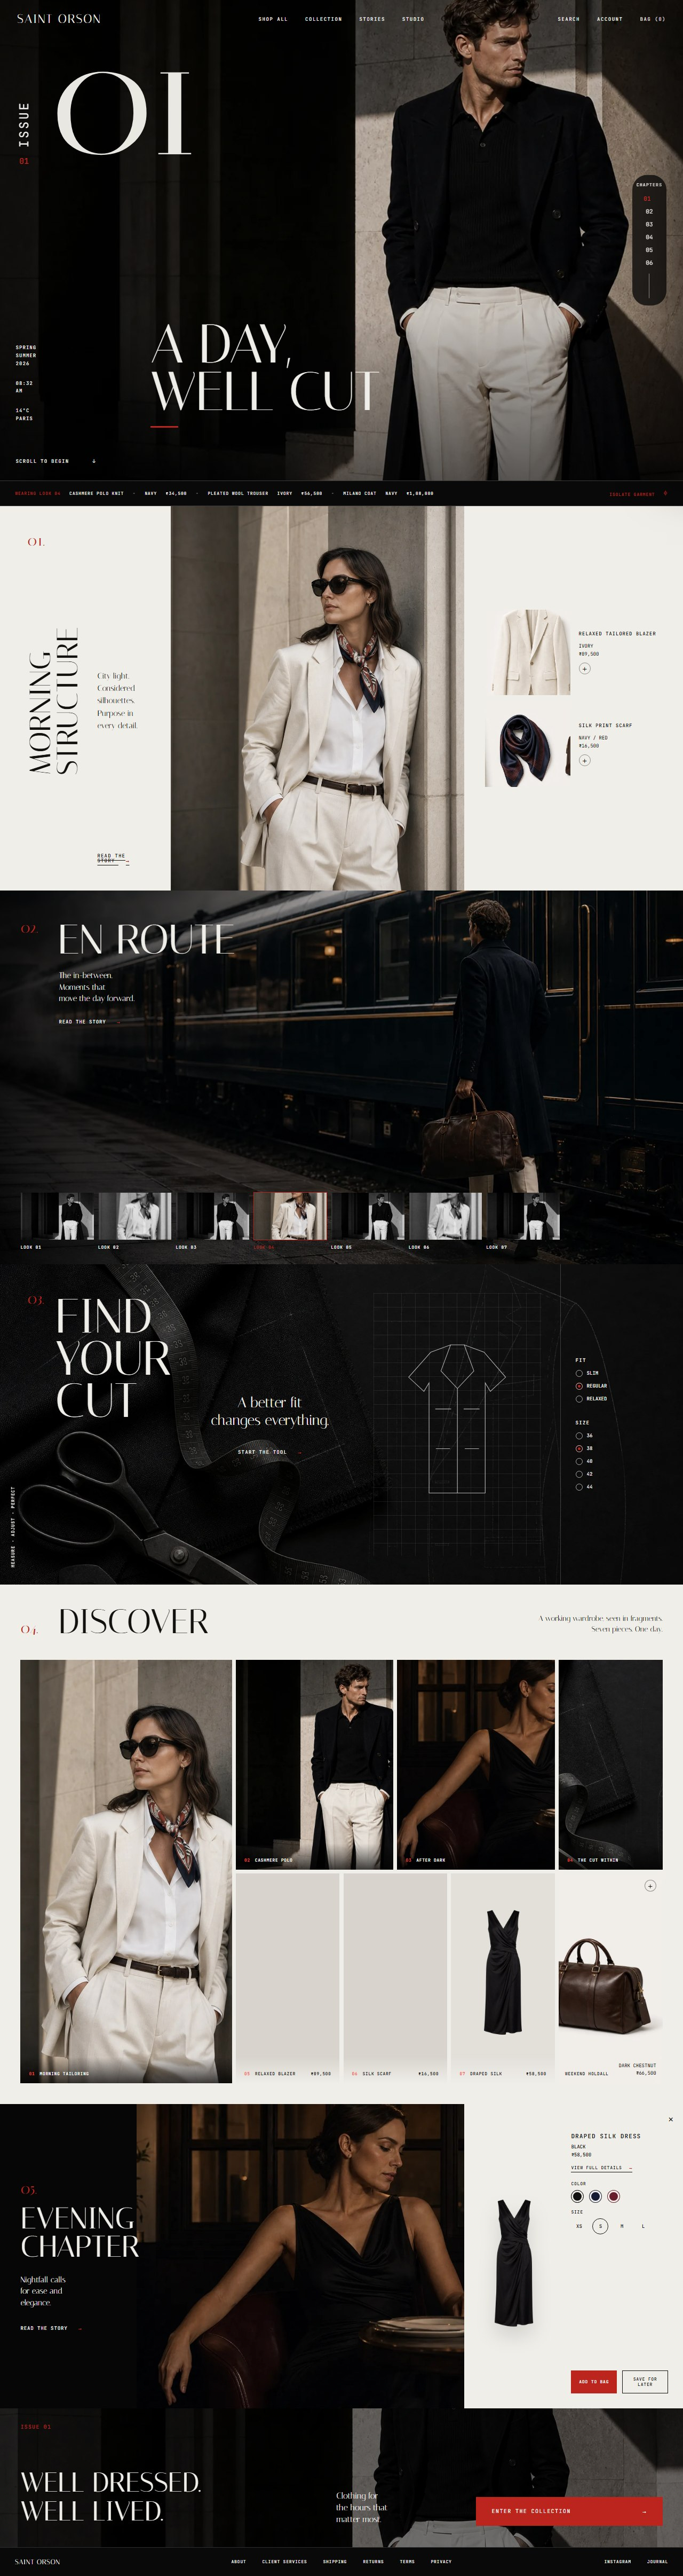
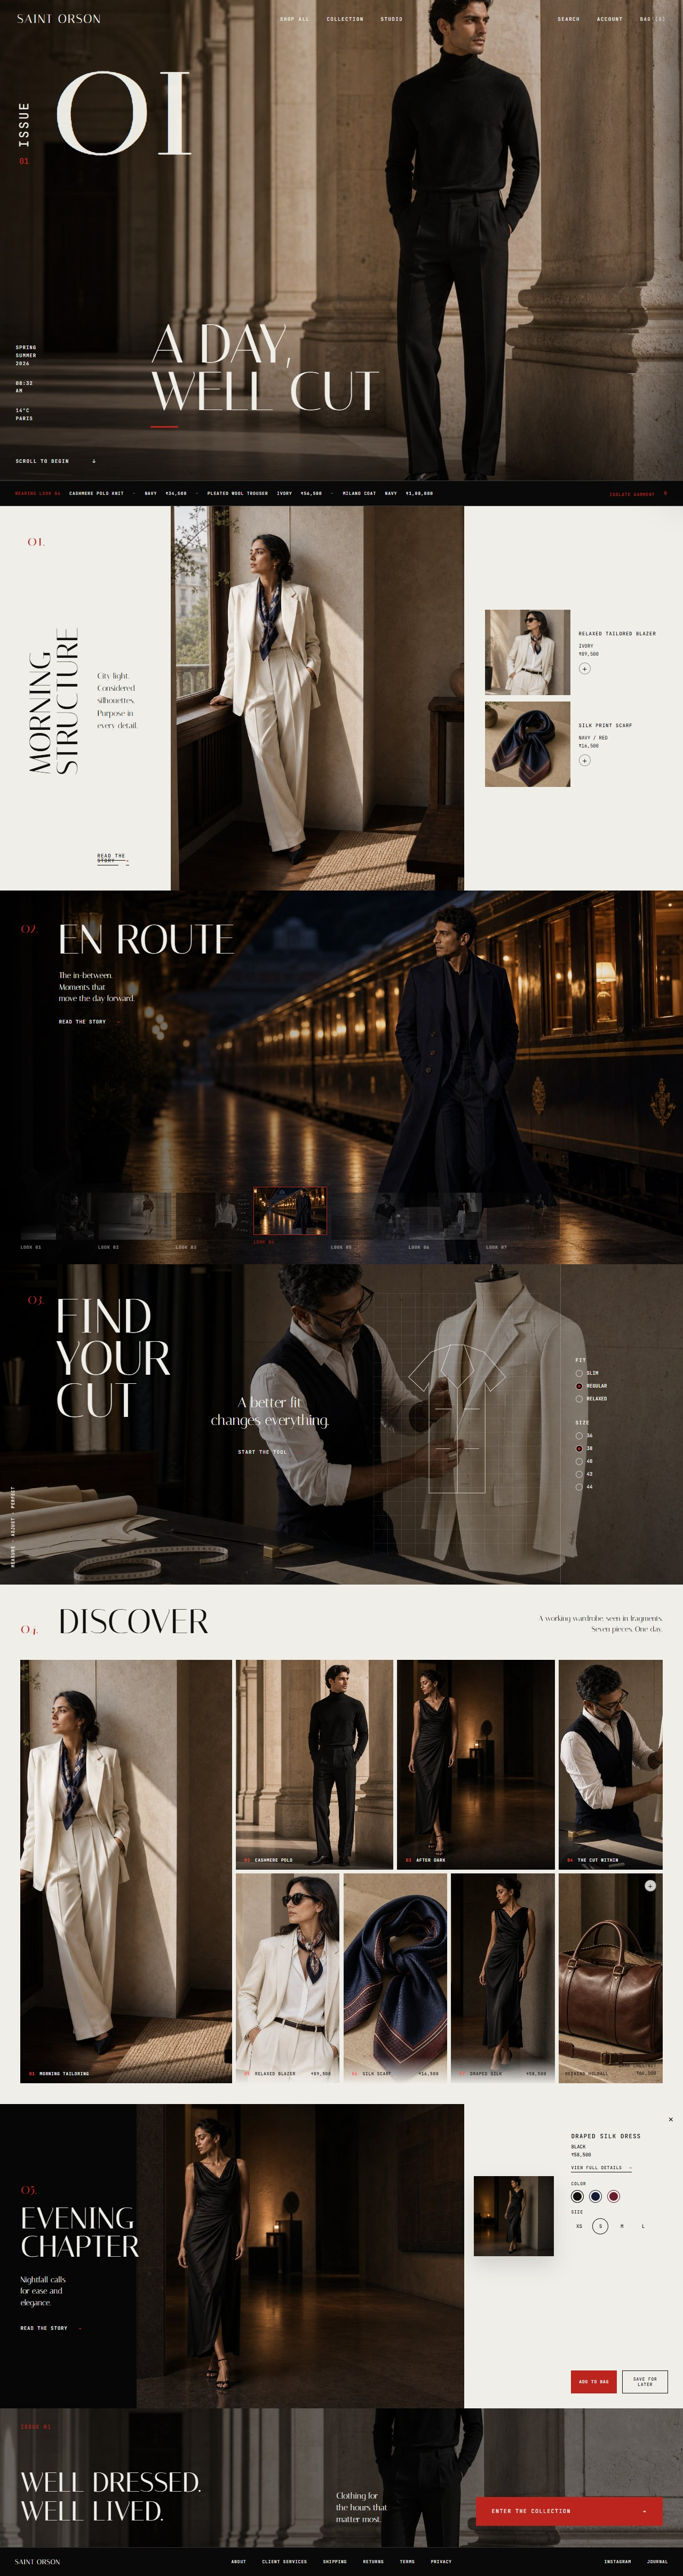
Pravah + Saint Orson: real imagery and brand assets
Pre-existing working-tree changes, bundled in per request:
- Pravah: reworked products/network sections to use real infrastructure
  imagery (bare metal, storage, managed databases, network ops) and SVG
  diagrams, with matching style updates
- Saint Orson: brand mark + favicons, index tweak, refreshed preview shot

diff --git a/case-studies/pravah/products.jsx b/case-studies/pravah/products.jsx
@@ -1,105 +1,9 @@
 import React from 'react';
-import { Server, Cpu, HardDrive, Database, Network, Save, ArrowRight } from 'lucide-react';
+import { Cpu, HardDrive, Database, Network, Save } from 'lucide-react';
 import { Reveal, Placeholder } from './ui.jsx';
 
 /* ----- small sharp technical diagrams, one per product ----- */
 
-const ladder = [
-  { n: 'Basic', s: '2 vCPU · 4 GB', p: '₹399', w: 28 },
-  { n: 'General Purpose', s: '4 vCPU · 8 GB', p: '₹799', w: 48, hot: true },
-  { n: 'Performance', s: '8 vCPU · 16 GB', p: '₹1,599', w: 72 },
-  { n: 'Dedicated', s: '16 vCPU · 32 GB', p: '₹3,199', w: 100 },
-];
-
-function PlanLadder() {
-  return (
-    <div className="mt-6 border border-white/10">
-      {ladder.map((p) => (
-        <div
-          key={p.n}
-          className={`flex items-center gap-4 px-4 py-3 border-b border-white/10 last:border-b-0 transition-colors hover:bg-white/[0.03] ${p.hot ? 'bg-electric/[0.06]' : ''}`}
-        >
-          <span className="w-32 shrink-0 font-display text-sm">{p.n}</span>
-          <div className="flex-1 h-1.5 bg-white/[0.06] relative">
-            <div className="absolute inset-y-0 left-0 bg-electric/60" style={{ width: `${p.w}%` }} />
-          </div>
-          <span className="hidden sm:block w-28 shrink-0 text-right font-mono text-[11px] text-white/45">{p.s}</span>
-          <span className="w-16 shrink-0 text-right font-mono text-sm text-electric">{p.p}</span>
-        </div>
-      ))}
-    </div>
-  );
-}
-
-function RackUnit() {
-  return (
-    <svg viewBox="0 0 140 44" className="w-full mt-5" aria-hidden="true">
-      <rect x="0.5" y="0.5" width="139" height="43" fill="none" stroke="rgba(255,255,255,0.14)" />
-      {Array.from({ length: 9 }).map((_, i) => (
-        <rect key={i} x={9 + i * 9} y="9" width="5.5" height="26" fill="rgba(91,140,255,0.16)" stroke="rgba(91,140,255,0.4)" strokeWidth="0.5" />
-      ))}
-      <rect x="116" y="9" width="15" height="6" fill="#5b8cff" />
-      <rect x="116" y="19" width="15" height="3" fill="rgba(255,255,255,0.18)" />
-      <rect x="116" y="25" width="15" height="3" fill="rgba(255,255,255,0.18)" />
-    </svg>
-  );
-}
-
-function StorageStack() {
-  return (
-    <div className="mt-5 flex items-end gap-1.5 h-14" aria-hidden="true">
-      {[38, 52, 66, 80, 100].map((h, i) => (
-        <div key={i} className="flex-1 border border-electric/30 bg-electric/10" style={{ height: `${h}%` }} />
-      ))}
-    </div>
-  );
-}
-
-function ReplicaSet() {
-  return (
-    <svg viewBox="0 0 140 60" className="w-full mt-5" aria-hidden="true">
-      <line x1="70" y1="18" x2="34" y2="44" stroke="#5b8cff" strokeOpacity="0.45" strokeWidth="0.7" className="pv-link" />
-      <line x1="70" y1="18" x2="106" y2="44" stroke="#5b8cff" strokeOpacity="0.45" strokeWidth="0.7" className="pv-link" />
-      <rect x="58" y="6" width="24" height="14" fill="rgba(91,140,255,0.22)" stroke="#5b8cff" strokeWidth="0.7" />
-      <rect x="22" y="44" width="24" height="12" fill="none" stroke="rgba(255,255,255,0.22)" strokeWidth="0.7" />
-      <rect x="94" y="44" width="24" height="12" fill="none" stroke="rgba(255,255,255,0.22)" strokeWidth="0.7" />
-    </svg>
-  );
-}
-
-function SnapshotTimeline() {
-  return (
-    <div className="mt-7 mb-1 relative h-4" aria-hidden="true">
-      <div className="absolute top-1/2 left-0 right-0 h-px bg-white/15" />
-      {[8, 24, 40, 56, 72].map((x, i) => (
-        <span key={i} className="absolute top-1/2 -translate-y-1/2 w-px h-2.5 bg-white/30" style={{ left: `${x}%` }} />
-      ))}
-      <span className="absolute top-1/2 -translate-y-1/2 w-0.5 h-4 bg-electric" style={{ left: '88%' }} />
-    </div>
-  );
-}
-
-const topoBox = 'border border-white/15 px-3 py-2 font-mono text-[10px] text-white/70 whitespace-nowrap';
-function Conn() {
-  return <span className="pv-current w-5 sm:w-8 shrink-0" aria-hidden="true" />;
-}
-function Topology() {
-  return (
-    <div className="flex items-center gap-2 sm:gap-3 overflow-x-auto py-2" aria-hidden="true">
-      <span className={topoBox}>Internet</span>
-      <Conn />
-      <span className={`${topoBox} !text-electric !border-electric/40`}>Load balancer</span>
-      <Conn />
-      <div className="flex flex-col gap-1.5">
-        <span className={topoBox}>srv-1</span>
-        <span className={topoBox}>srv-2</span>
-        <span className={topoBox}>srv-3</span>
-      </div>
-      <Conn />
-      <span className={topoBox}>Postgres</span>
-    </div>
-  );
-}
 
 function CellHead({ icon: Icon, name, price }) {
   return (
@@ -134,21 +38,6 @@ export function Products() {
 
         <Reveal delay={0.05}>
           <div className="grid grid-cols-1 lg:grid-cols-6 gap-px bg-white/10 border border-white/10 mt-12">
-            {/* Featured: Cloud Servers */}
-            <div className="lg:col-span-4 lg:row-span-2 bg-base p-7 flex flex-col">
-              <CellHead icon={Server} name="Cloud Servers" price="from ₹399/mo" />
-              <p className="text-white/55 text-sm mt-4 max-w-lg leading-relaxed">
-                Virtual servers on shared or dedicated vCPU, NVMe everywhere. Resize, snapshot and clone in
-                seconds. Pick a size and you are live in under a minute.
-              </p>
-              <PlanLadder />
-              <div className="flex flex-wrap items-center gap-x-5 gap-y-3 mt-auto pt-6">
-                <a href="/case-studies/pravah/auth/#signup" className="inline-flex items-center gap-2 bg-electric text-black px-5 py-2.5 text-sm font-medium hover:bg-arc transition-colors">
-                  Deploy a server <ArrowRight className="w-4 h-4" />
-                </a>
-                <a href="#pricing" className="font-mono text-[11px] uppercase tracking-wide text-white/55 hover:text-white transition-colors">Compare all plans</a>
-              </div>
-            </div>
 
             {/* Facility image */}
             <div className="lg:col-span-2 bg-base">
@@ -158,28 +47,50 @@ export function Products() {
             {/* Bare Metal */}
             <div className="lg:col-span-2 bg-base p-7 flex flex-col">
               <CellHead icon={Cpu} name="Bare Metal" price="from ₹6,999/mo" />
-              <RackUnit />
+              <div className="pv-image-slab mt-5 aspect-[16/10]">
+                <img src="/case-studies/pravah/images/bare-metal-racks.webp" alt="Bare metal rack servers inside a Pravah data centre" loading="lazy" decoding="async" />
+              </div>
+              <img
+                src="/case-studies/pravah/images/bare-metal-diagram.svg"
+                alt="Bare metal host diagram showing CPU, memory, NVMe RAID, and 10G network"
+                className="pv-card-diagram mt-5"
+                loading="lazy"
+                decoding="async"
+              />
               <p className="font-mono text-[11px] uppercase tracking-wide text-white/40 mt-auto pt-5">Ryzen &amp; EPYC · NVMe RAID</p>
             </div>
 
             {/* Storage */}
             <div className="lg:col-span-2 bg-base p-7 flex flex-col">
               <CellHead icon={HardDrive} name="Block & Object Storage" />
-              <StorageStack />
+              <div className="pv-image-slab mt-5 aspect-[16/10]">
+                <img src="/case-studies/pravah/images/storage-array.webp" alt="NVMe storage array with live status lights" loading="lazy" decoding="async" />
+              </div>
+              <img
+                src="/case-studies/pravah/images/storage-diagram.svg"
+                alt="Storage diagram showing app data flowing into block volumes and object buckets"
+                className="pv-card-diagram mt-5"
+                loading="lazy"
+                decoding="async"
+              />
               <p className="font-mono text-[11px] uppercase tracking-wide text-white/40 mt-auto pt-5">11 nines · from ₹3/GB</p>
             </div>
 
             {/* Databases */}
-            <div className="lg:col-span-2 bg-base p-7 flex flex-col">
+            <div className="lg:col-span-3 bg-base p-7 flex flex-col">
               <CellHead icon={Database} name="Managed Databases" />
-              <ReplicaSet />
+              <div className="pv-image-slab mt-5 aspect-[16/10]">
+                <img src="/case-studies/pravah/images/managed-databases.webp" alt="Managed database cluster hardware with high-availability storage" loading="lazy" decoding="async" />
+              </div>
               <p className="font-mono text-[11px] uppercase tracking-wide text-white/40 mt-auto pt-3">Postgres · MySQL · Redis · HA</p>
             </div>
 
             {/* Backups */}
-            <div className="lg:col-span-2 bg-base p-7 flex flex-col">
+            <div className="lg:col-span-3 bg-base p-7 flex flex-col">
               <CellHead icon={Save} name="Backups & Snapshots" />
-              <SnapshotTimeline />
+              <div className="pv-image-slab mt-5 aspect-[16/10]">
+                <img src="/case-studies/pravah/images/backups-snapshots.webp" alt="Backup and snapshot storage arrays in a Pravah data centre" loading="lazy" decoding="async" />
+              </div>
               <p className="font-mono text-[11px] uppercase tracking-wide text-white/40 mt-auto pt-5">Cross-region · from ₹0.50/GB</p>
             </div>
 
@@ -194,7 +105,13 @@ export function Products() {
                   </p>
                 </div>
                 <div className="lg:flex-1 lg:border-l border-white/10 lg:pl-8">
-                  <Topology />
+                  <img
+                    src="/case-studies/pravah/images/network-topology.svg"
+                    alt="Networking topology from internet to load balancer, servers, and Postgres"
+                    className="pv-network-diagram"
+                    loading="lazy"
+                    decoding="async"
+                  />
                 </div>
               </div>
             </div>

diff --git a/case-studies/pravah/index.css b/case-studies/pravah/index.css
@@ -111,6 +111,43 @@ a { color: inherit; text-decoration: none; }
 }
 .pv-ph img { display: block; width: 100%; height: 100%; object-fit: cover; }
 
+.pv-image-slab {
+  position: relative;
+  overflow: hidden;
+  border: 1px solid var(--color-hair);
+  background: #05070d;
+  isolation: isolate;
+}
+.pv-image-slab::after {
+  content: "";
+  position: absolute;
+  inset: 0;
+  background:
+    linear-gradient(180deg, rgba(4, 5, 10, 0.08), rgba(4, 5, 10, 0.38)),
+    linear-gradient(90deg, rgba(91, 140, 255, 0.16), transparent 36%, rgba(4, 5, 10, 0.24));
+  pointer-events: none;
+}
+.pv-image-slab img {
+  display: block;
+  width: 100%;
+  height: 100%;
+  object-fit: cover;
+  filter: saturate(0.9) contrast(1.08);
+}
+
+.pv-network-diagram {
+  display: block;
+  width: 100%;
+  min-width: 520px;
+  aspect-ratio: 820 / 210;
+}
+
+.pv-card-diagram {
+  display: block;
+  width: 100%;
+  aspect-ratio: 820 / 210;
+}
+
 /* Corner ticks for the blueprint framing. */
 .pv-ticks::before, .pv-ticks::after {
   content: "";

diff --git a/case-studies/pravah/App.jsx b/case-studies/pravah/App.jsx
@@ -126,6 +126,26 @@ function WhyPravah() {
         </div>
 
         <Reveal delay={0.05}>
+          <div className="mt-6 grid lg:grid-cols-[1.1fr_0.9fr] border border-white/10 bg-white/10 gap-px">
+            <div className="bg-panel p-7 sm:p-8 flex flex-col justify-between">
+              <div>
+                <p className="pv-eyebrow mb-4">// Engineer-led support</p>
+                <h3 className="font-display text-2xl md:text-3xl font-medium tracking-tight">The people answering tickets run the platform.</h3>
+              </div>
+              <p className="text-white/55 text-sm leading-relaxed max-w-xl mt-6">
+                Pravah is positioned like infrastructure, not a reseller wrapper: support is closer to the rack,
+                the network and the console, so production issues do not disappear into a queue.
+              </p>
+            </div>
+            <div className="bg-base min-h-[260px]">
+              <div className="pv-image-slab h-full min-h-[260px]">
+                <img src="/case-studies/pravah/images/support-engineer.webp" alt="Indian cloud engineer monitoring Pravah infrastructure" loading="lazy" decoding="async" />
+              </div>
+            </div>
+          </div>
+        </Reveal>
+
+        <Reveal delay={0.05}>
           <div className="mt-6 overflow-x-auto">
             <div className="grid grid-cols-[1.2fr_1fr_1fr] gap-px bg-white/10 border border-white/10 min-w-[680px]">
               <div className="bg-base px-5 py-4" />

diff --git a/case-studies/pravah/contact/ContactApp.jsx b/case-studies/pravah/contact/ContactApp.jsx
@@ -214,6 +214,9 @@ export default function ContactApp() {
               <ContactForm />
             </div>
             <div className="lg:col-span-5">
+              <div className="pv-image-slab aspect-[16/9] mb-6">
+                <img src="/case-studies/pravah/images/support-engineer.webp" alt="Pravah support engineer monitoring infrastructure" loading="lazy" decoding="async" />
+              </div>
               <p className="font-mono text-[11px] uppercase tracking-wider text-white/45 mb-4">Or reach a team directly</p>
               <Channels />
             </div>

diff --git a/case-studies/pravah/network.jsx b/case-studies/pravah/network.jsx
@@ -64,6 +64,9 @@ export function Regions() {
 
           <Reveal delay={0.05} className="lg:col-span-5 min-w-0 flex flex-col gap-6">
             <div className="border border-white/12 bg-panel p-6">
+              <div className="pv-image-slab mb-6 aspect-[16/9]">
+                <img src="/case-studies/pravah/images/india-network-ops.webp" alt="Pravah network operations room monitoring India-hosted regions" loading="lazy" decoding="async" />
+              </div>
               <Shield className="w-6 h-6 text-electric" />
               <h3 className="font-display text-xl mt-4">Your data stays in India</h3>
               <p className="text-white/55 text-sm mt-2 leading-relaxed">

diff --git a/case-studies/saint-orson/index.html b/case-studies/saint-orson/index.html
@@ -6,6 +6,9 @@
   <meta name="theme-color" content="#0a0a09" />
   <meta name="description" content="Saint Orson Issue 01. A living fashion publication and luxury clothing store." />
   <title>Saint Orson · Issue 01</title>
+  <link rel="icon" type="image/png" sizes="32x32" href="/case-studies/saint-orson/brand/favicon-32.png" />
+  <link rel="icon" type="image/png" sizes="192x192" href="/case-studies/saint-orson/brand/favicon-192.png" />
+  <link rel="apple-touch-icon" href="/case-studies/saint-orson/brand/saint-orson-mark.png" />
   <!-- Social cards. For production, point og:image at an absolute https URL (and ideally a jpg/png). -->
   <meta property="og:type" content="website" />
   <meta property="og:title" content="Saint Orson · Issue 01" />